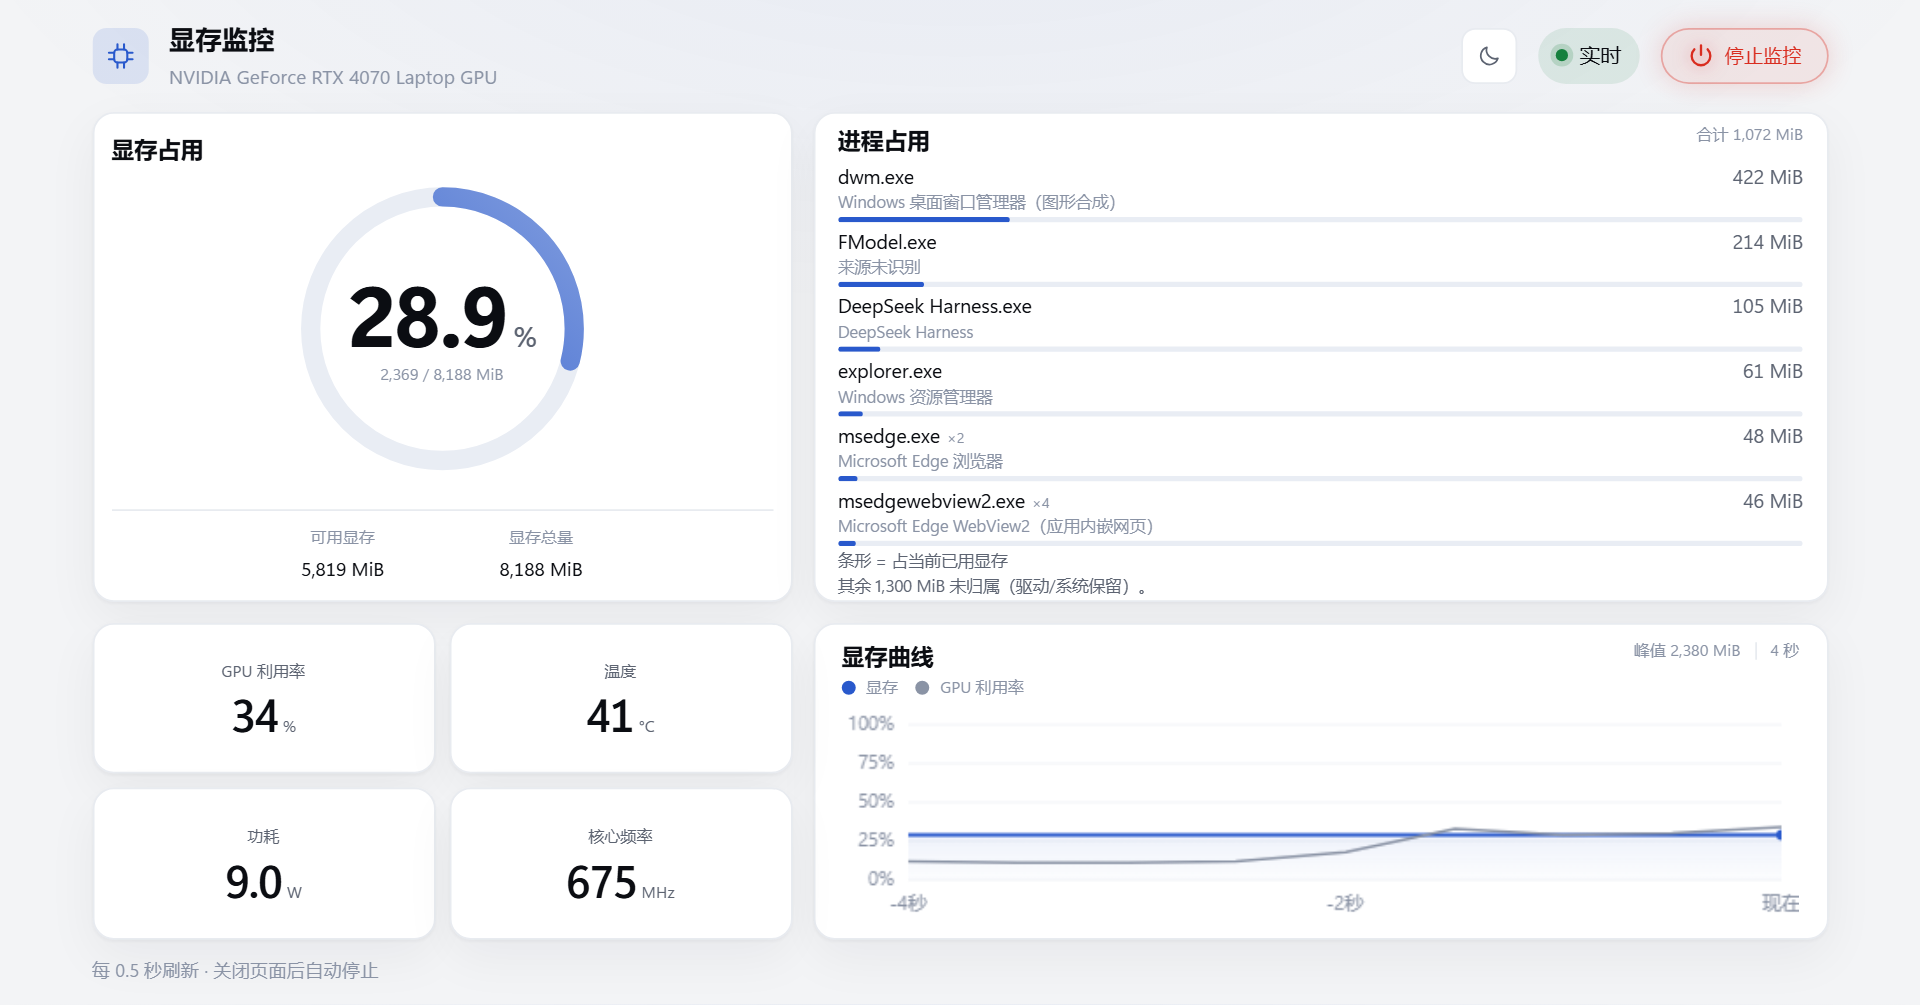
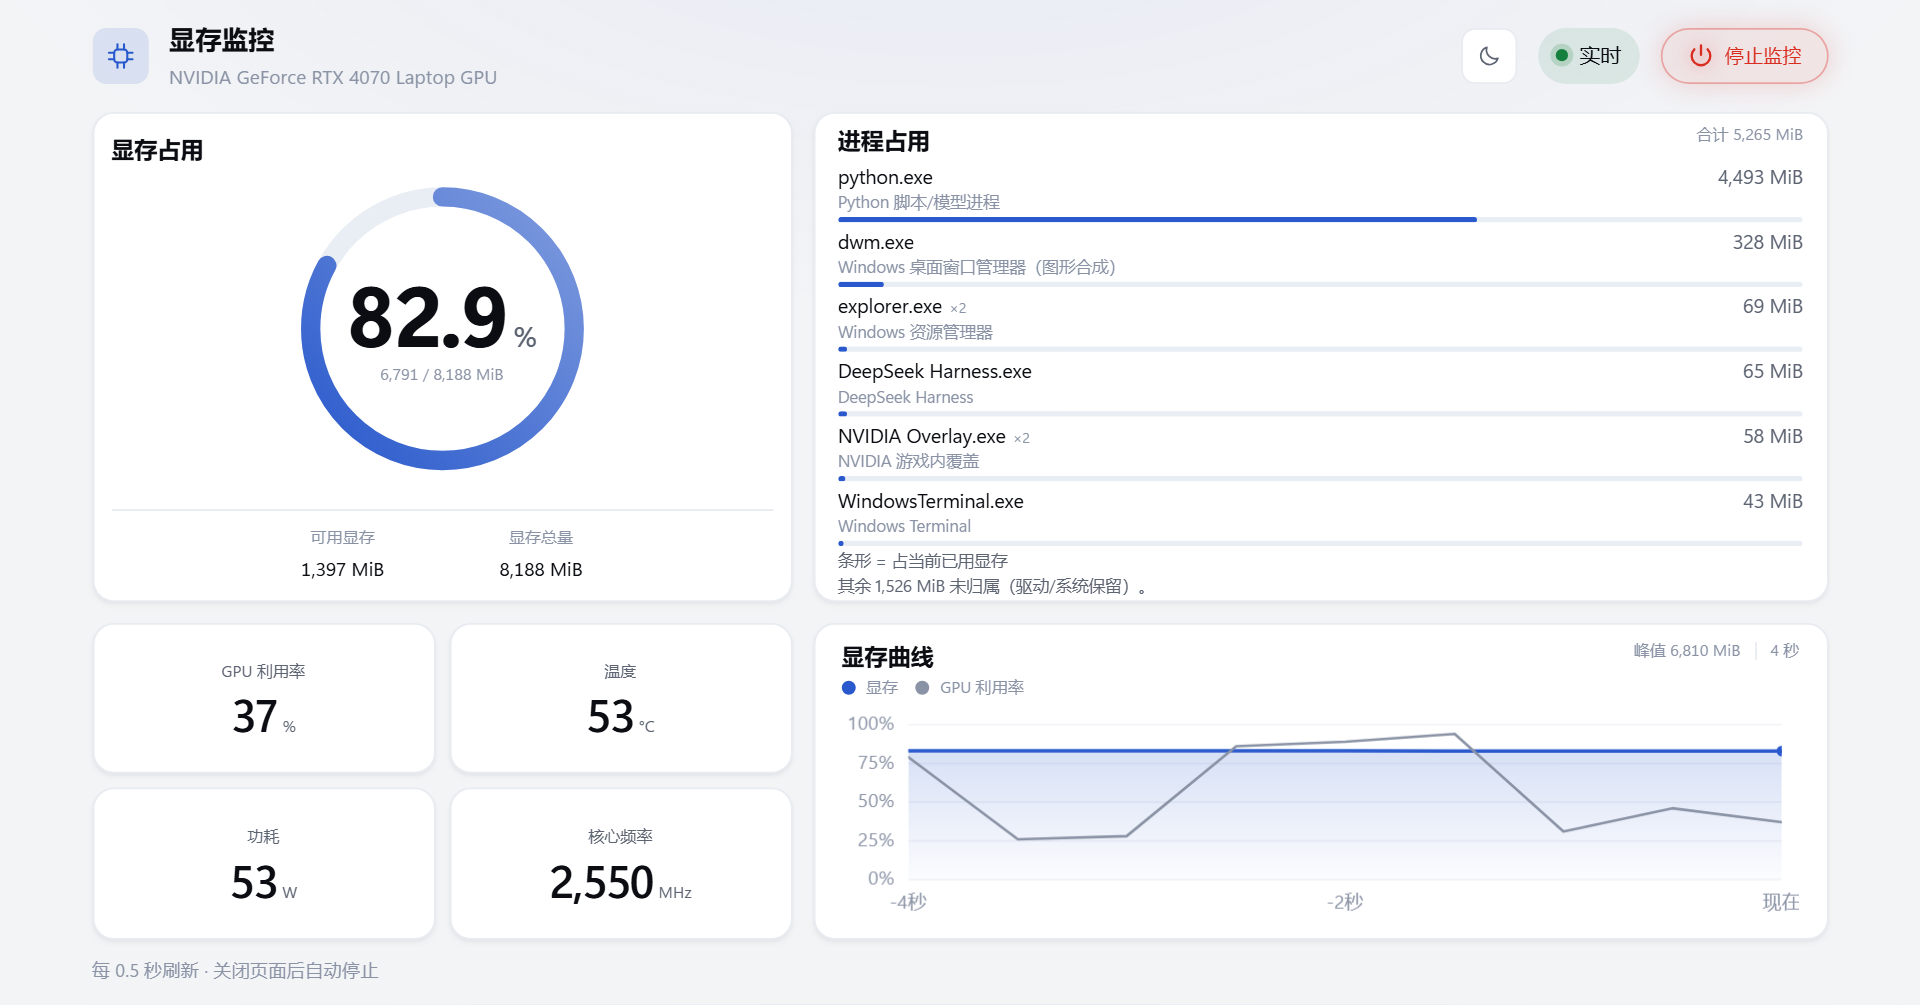
Tighten card and tooltip shadows; release v1.0.2

diff --git a/web/index.html b/web/index.html
@@ -20,7 +20,7 @@
     --warn: #b45309;
     --danger: #d92d20;
     --danger-solid: #b91c1c;
-    --shadow: 0 1px 2px rgba(15, 23, 42, 0.04), 0 10px 30px rgba(15, 23, 42, 0.05);
+    --shadow: 0 1px 2px rgba(15, 23, 42, 0.04), 0 2px 4px rgba(15, 23, 42, 0.03);
     --glow: rgba(41, 89, 204, 0.06);
     color-scheme: light;
   }
@@ -38,7 +38,7 @@
     --warn: #e0a33a;
     --danger: #ef5b5b;
     --danger-solid: #b91c1c;
-    --shadow: 0 1px 2px rgba(0, 0, 0, 0.35), 0 10px 30px rgba(0, 0, 0, 0.24);
+    --shadow: 0 1px 2px rgba(0, 0, 0, 0.35), 0 2px 4px rgba(0, 0, 0, 0.18);
     --glow: rgba(105, 139, 219, 0.08);
     color-scheme: dark;
   }
@@ -598,7 +598,7 @@
     border-radius: 10px;
     background: var(--card);
     color: var(--text-2);
-    box-shadow: 0 14px 36px rgba(0, 0, 0, 0.18);
+    box-shadow: 0 2px 6px rgba(0, 0, 0, 0.12);
     font-size: 12px;
     line-height: 1.45;
     pointer-events: none;
@@ -673,7 +673,7 @@
     border-radius: 8px;
     background: var(--card);
     color: var(--text);
-    box-shadow: 0 10px 28px rgba(0, 0, 0, 0.16);
+    box-shadow: 0 2px 6px rgba(0, 0, 0, 0.12);
     font-size: 12px;
     line-height: 1.4;
   }

diff --git a/app.py b/app.py
@@ -28,7 +28,7 @@ from pathlib import Path
 from urllib.parse import urlparse
 
 APP_NAME = "显存监控"
-VERSION = "1.0.1"
+VERSION = "1.0.2"
 
 ROOT = Path(__file__).resolve().parent
 WEB_ROOT = ROOT / "web"

diff --git a/README.md b/README.md
@@ -4,7 +4,7 @@
 
 一个零依赖的 Windows NVIDIA 显存实时监控工具：Python 标准库后端 + 浏览器一屏仪表盘。启动后自动打开页面；关闭页面约 1 秒后台自动退出。
 
-**当前版本：v1.0.1**
+**当前版本：v1.0.2**
 
 ## 功能
 
@@ -22,7 +22,7 @@
 
 ### 下载便携包
 
-从 [Releases](https://github.com/Neus117/VRAM-Monitor/releases/latest) 下载 `VRAM-Monitor-v1.0.1.zip`，解压后双击：
+从 [Releases](https://github.com/Neus117/VRAM-Monitor/releases/latest) 下载 `VRAM-Monitor-v1.0.2.zip`，解压后双击：
 
 ```text
 启动显存监控.bat
